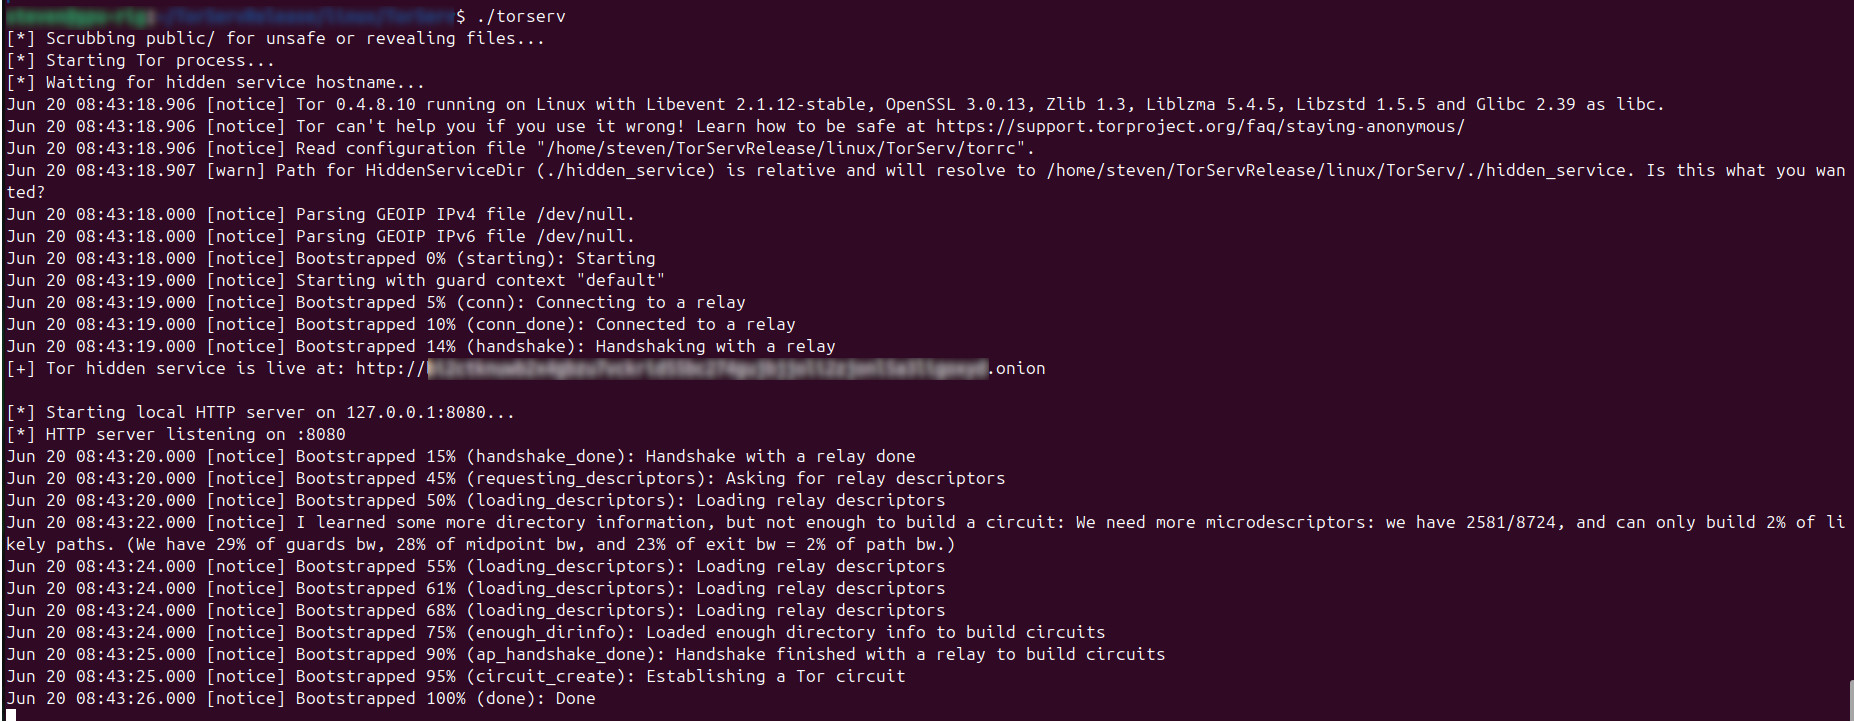
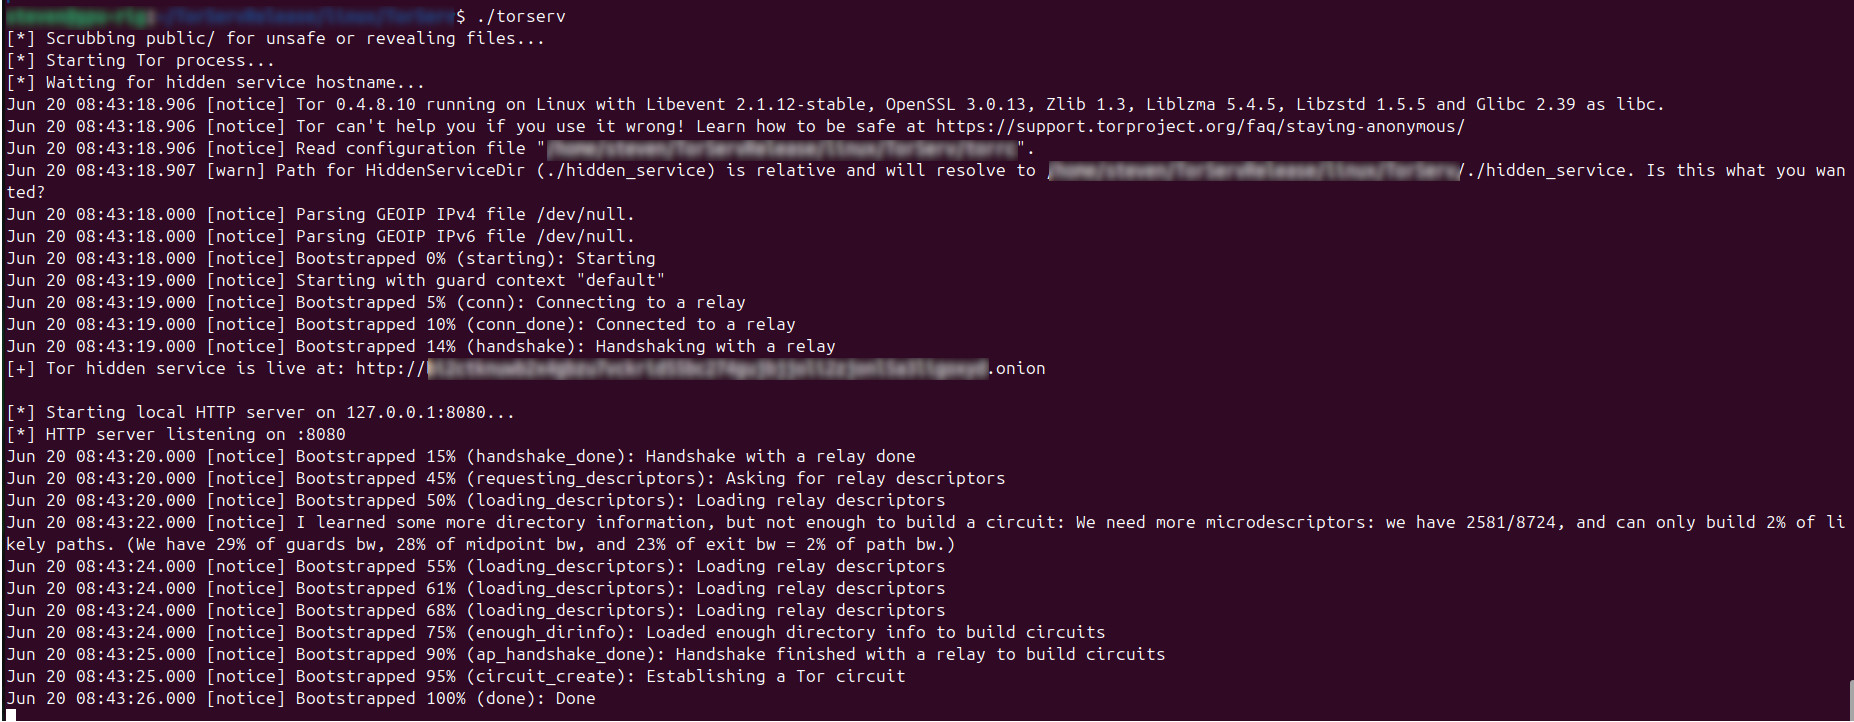
Fix: add properly redacted screenshot

Changed region(s): [[0.2767, 0.1828, 0.7994, 0.2742]]

diff --git a/README.md b/README.md
@@ -12,7 +12,7 @@ Unzip and run — TorServ includes hardened security defaults, built-in Tor inte
 [![Sponsor](https://img.shields.io/badge/Sponsor-💜%20TorServ-blueviolet?style=for-the-badge)](https://paypal.me/torserv)
 
 <p align="center">
-  <img src="images/Screenshot-clean.jpg" alt="TorServ Terminal Screenshot">
+  <img src="images/Screenshot.jpg" alt="TorServ Terminal Screenshot">
 </p>
 
 ---
